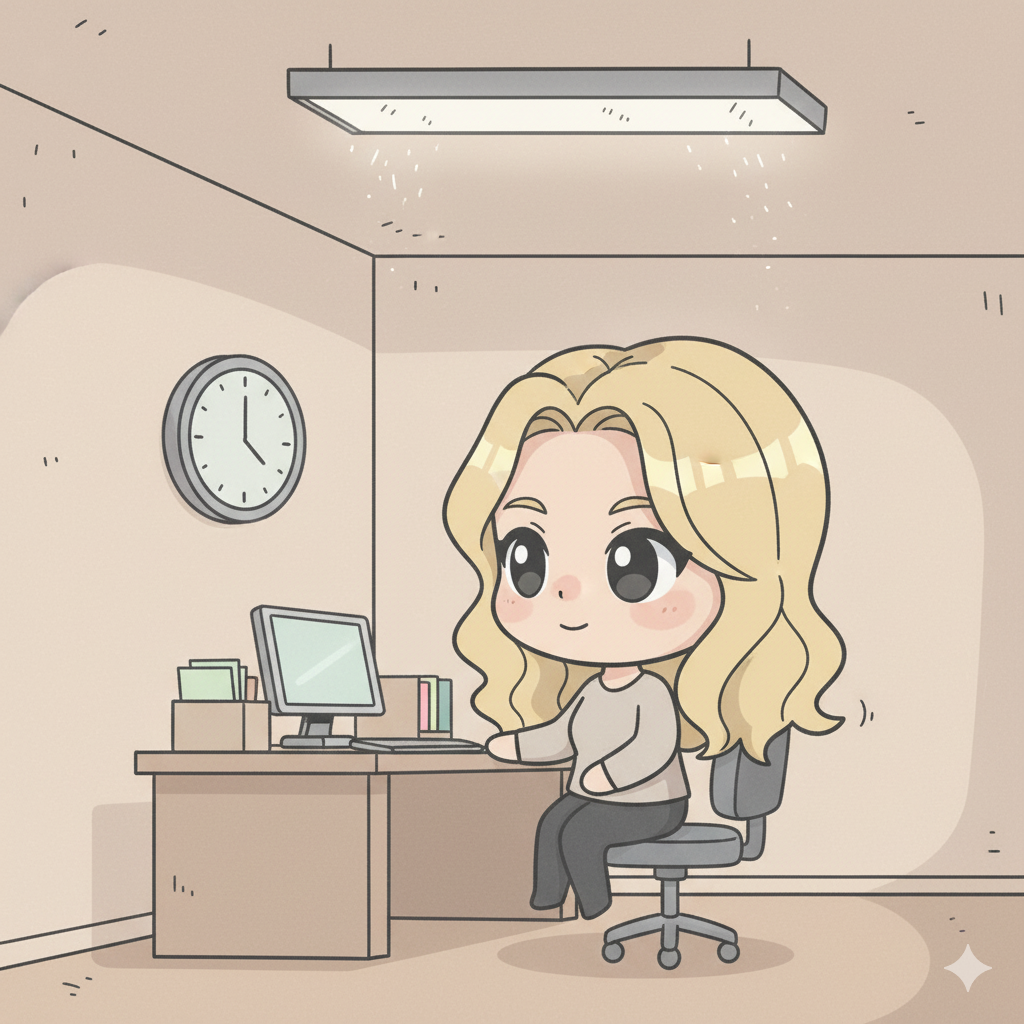
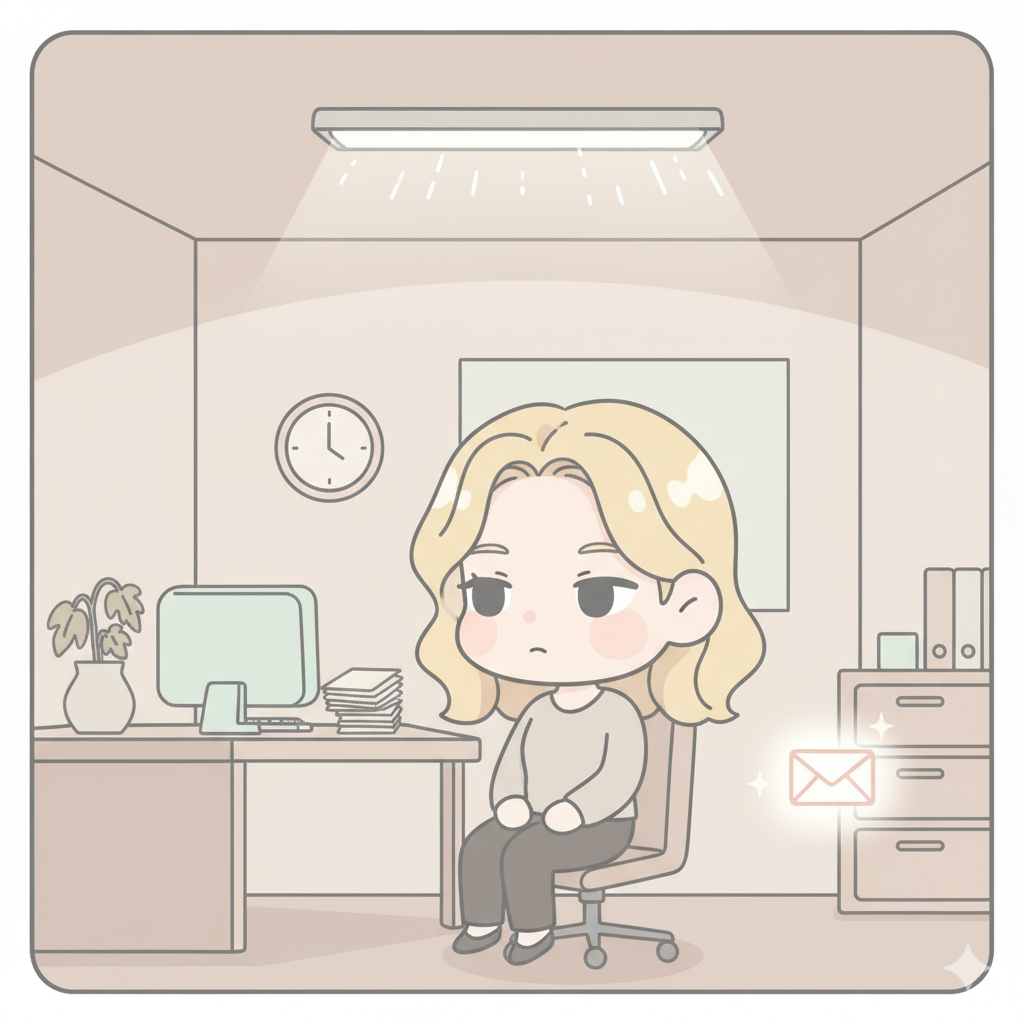
feat(good-place): Adiciona assets visuais

diff --git a/adventures/good-place/data.js b/adventures/good-place/data.js
@@ -13,7 +13,7 @@ const storyData = [
 
     {
         id: 2,
-        image: "img/id02-cha-da-tarde.png",
+        image: "img/id02-cha-da-tarde-02.png",
         altText: "Um vizinho sorridente te oferecendo uma xícara de chá em um jardim florido.",
         texto: "O vizinho agradece com sinceridade e te convida para o chá da tarde. Você:",
         opcoes: [
@@ -24,7 +24,7 @@ const storyData = [
 
     {
         id: 3,
-        image: "img/id03-loja-envelope.png",
+        image: "img/id03-loja-envelope-02.png",
         altText: "Um envelope cheio de dinheiro caído no chão de uma loja de frozen yogurt.",
         texto: "Ao explorar, encontra uma loja onde um funcionário deixou um envelope com dinheiro cair. Ninguém percebe. O que você faz?",
         opcoes: [
@@ -35,7 +35,7 @@ const storyData = [
 
     {
         id: 4,
-        image: "img/id04-anotacoes-secretas.png",
+        image: "img/id04-anotacoes-secretas-02.png",
         altText: "Um caderno aberto com anotações e diagramas confusos sobre o 'sistema'.",
         texto: "Você encontra anotações que sugerem que nem tudo é tão perfeito, algumas 'falhas' no sistema parecem intencionais. Você:",
         opcoes: [
@@ -47,7 +47,7 @@ const storyData = [
     {
         id: 5,
         image: "img/id05-dilema-moral.png",
-        altText: "Duas pessoas em um jardim, uma parecendo doente e outra saudável.",
+        altText: "Algumas pessoas em um jardim, uma parecendo preocupadas.",
         texto: "No chá, a conversa vira sobre moralidade e um dilema é apresentado: salvar uma vida a custo de mentir para um amigo. Você:",
         opcoes: [
             { texto: "Salvar a vida; mente para proteger (consequência utilitarista)", proximo: 7, pontos: 1, flag: "mentira protetora" },
@@ -58,7 +58,7 @@ const storyData = [
 
     {
         id: 6,
-        image: "img/id06-tremor.png",
+        image: "img/id06-tremor-02.png",
         altText: "Uma xícara de chá vibrando em uma mesa, com o líquido tremendo.",
         texto: "Você começa a sentir que suas escolhas têm reflexo imediato na paisagem: pequenos tremores, mudanças sutis. Um morador pergunta por sua opinião sobre justiça. O que responde?",
         opcoes: [
@@ -114,7 +114,7 @@ const storyData = [
 
     {
         id: 11,
-        image: "img/id11-guia-julgamento.png",
+        image: "img/id11-guia-julgamento-02.png",
         altText: "O Guia te olhando com uma expressão neutra, segurando uma prancheta.",
         texto: "Você evita o teste, prefere ações cotidianas. Ao final do dia, o Guia aparece e diz que suas escolhas serão consideradas de qualquer forma.",
         opcoes: [
@@ -137,7 +137,7 @@ const storyData = [
     {
         id: 13,
         image: "img/id13-medio-lugar.png",
-        altText: "Um escritório bege e sem graça, com uma luz fluorescente piscando.",
+        altText: "Um escritório bege e sem graça, com uma luz fluorescente.",
         texto: "Você escolheu o anonimato. O 'Médio Lugar' é confortável, mas falta sentido às suas ações. Alguns dias depois, um chamado: reavaliação possível. Quer tentar novamente?",
         opcoes: [
             { texto: "Tentar reavaliar (volta ao centro)", proximo: "julgamento" },
@@ -158,7 +158,7 @@ const storyData = [
 
     {
         id: 20,
-        image: "img/id20-good-place.png",
+        image: "img/id20-good-place-02.png",
         altText: "Uma porta verde brilhante se abrindo para um lugar paradisíaco.",
         texto: "🏆 FINAL: Você ganhou o Good Place. Suas ações demonstraram crescimento moral consistente; você é convidado a continuar evoluindo num lugar de alegria duradoura.",
         final: "Good Place: Vida plena de aprendizado e felicidade.",
